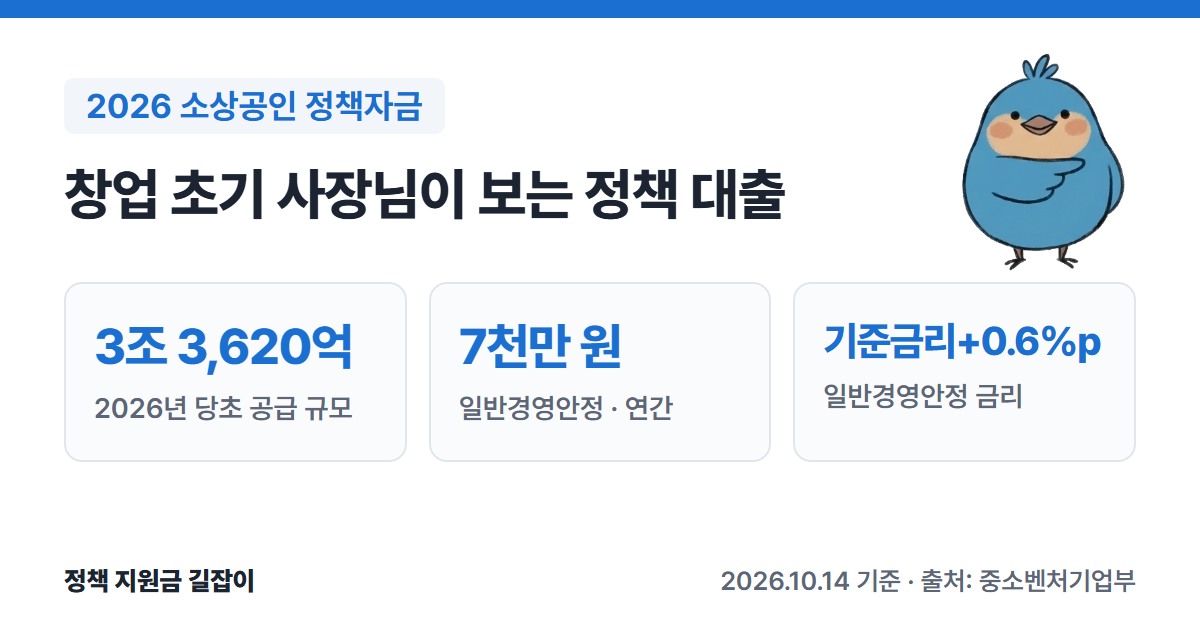
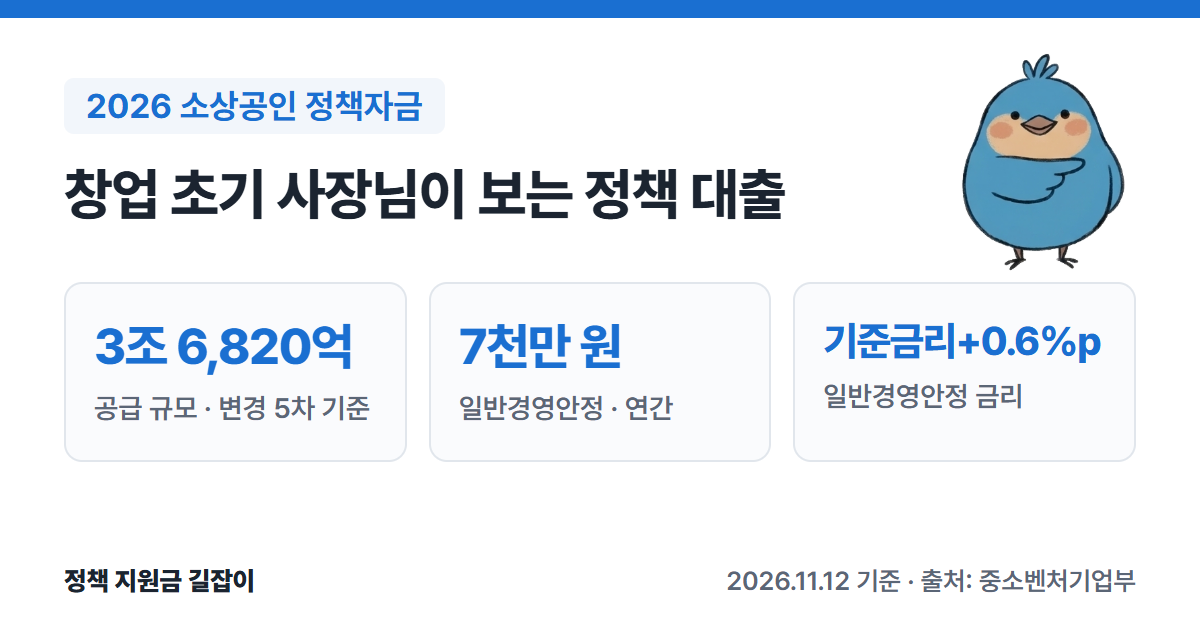
옛 글 최신화 6/16: 소상공인 정책자금(변경 5차 공고 대조 — 공급 규모 3조 6,820억·지역센터 80곳, 혁신성장 혁신형 한도, 흐름도, 놓치기 쉬운 점, Fable 검토 ⚠12 반영)

Changed region(s): [[0.0617, 0.6032, 0.3083, 0.6635], [0.1233, 0.5127, 0.2158, 0.573], [0.5858, 0.9048, 0.7092, 0.9349]]

diff --git a/_tools/flow/small-business-policy-loan-2026.html b/_tools/flow/small-business-policy-loan-2026.html
@@ -1,0 +1,17 @@
+<!doctype html><html><head><meta charset="utf-8"><title>flow</title></head><body><script>
+// 번호 = 본문 "신청 순서" 1~3. 2단계는 본문 "직접대출과 대리대출" 표 그대로(대리대출 경로를 그리고 직접대출은 메모)
+window.FLOW = { height: 1330, label: "2026 소상공인 정책자금",
+  note: { main: "갚아야 하는 대출(융자)이에요", sub: "접수 중인 자금은 누리집 공지에서 확인하세요" },
+  applicant: { y0: 340, y1: 1050, lines: ["(소상공인)"] },
+  boxes: [
+    { y: 340, h: 220, main: 1, lines: [["head", "신청 (중 1곳)"], ["title", "정책자금 누리집"], ["text", "소진공 지역센터"]] },
+    { y: 650, h: 170, lines: [["title", "신용보증재단"], ["text", "보증서 (보증서부 대출)"]] },
+    { y: 900, h: 150, lines: [["title", "은행"], ["em", "대리대출"]] } ],
+  arrows: [
+    { type: "in", y: 450, n: 1, label: "자금 신청" },
+    { type: "v", y0: 560, y1: 650, n: 2, label: "대상 확인" },
+    { type: "v", y0: 820, y1: 900, label: "보증서" },
+    { type: "out", y: 975, label: "대출" } ],
+  notesY: 1140, notes: ["직접대출은 소진공이 직접 심사해서 대출해요", [3, "대출 뒤 용도 점검 · 다른 용도면 조기 회수"], "문의: 1533-0100 · 1357"],
+  foot: "2026.11.12 기준 · 출처: 중소벤처기업부 공고" };
+</script><script src="flow.js"></script></body></html>

diff --git a/_tools/card.html b/_tools/card.html
@@ -285,12 +285,12 @@ const cards = {
     label: "2026 청년창업사관학교",
     title: "39세 이하 창업자 자금·공간·교육",
     stats: [["최대 1억 원", "사업화 자금 · 평균 0.7억"], ["39세 이하", "창업 3년 이내"], ["650명", "전국 18곳 모집"]],
-    foot: "2026.10.14 기준 · 출처: 중소벤처기업부"
+    foot: "2026.11.12 기준 · 출처: 중소벤처기업부"
   },
   "small-business-policy-loan-2026": {
     label: "2026 소상공인 정책자금",
     title: "창업 초기 사장님이 보는 정책 대출",
-    stats: [["3조 3,620억", "2026년 당초 공급 규모"], ["7천만 원", "일반경영안정 · 연간"], ["기준금리+0.6%p", "일반경영안정 금리"]],
+    stats: [["3조 6,820억", "공급 규모 · 변경 5차 기준"], ["7천만 원", "일반경영안정 · 연간"], ["기준금리+0.6%p", "일반경영안정 금리"]],
     foot: "2026.11.12 기준 · 출처: 중소벤처기업부"
   },
   "startup-tax-reduction-2026": {

diff --git a/_posts/2026-10-14-small-business-policy-loan-2026.md b/_posts/2026-10-14-small-business-policy-loan-2026.md
@@ -1,7 +1,7 @@
 ---
 layout: post
 title: "2026 소상공인 정책자금 총정리: 창업 초기 사장님이 볼 대출 종류·한도·금리·신청법"
-description: "정책자금은 갚아야 하는 대출이에요. 2026년 당초 공급 규모는 3조 3,620억 원이에요. 업력과 관계없이 신청할 수 있는 일반경영안정자금은 연간 7천만 원까지, 금리는 정책자금 기준금리 + 0.6%p예요."
+description: "정책자금은 갚아야 하는 대출이에요. 2026년 공급 규모는 변경 5차 공고 기준 3조 6,820억 원이에요(당초 3조 3,620억 원). 업력과 관계없이 신청할 수 있는 일반경영안정자금은 연간 7천만 원까지, 금리는 정책자금 기준금리 + 0.6%p예요."
 date: 2026-10-14 13:40:00 +0900
 topic: 창업
 who: ["소상공인"]
@@ -13,15 +13,15 @@ apply_name: "소상공인 정책자금 누리집"
 **소상공인 정책자금**은 정부가 소상공인에게 낮은 금리로 빌려주는 **융자(대출)** 예요. 창업 초기에 운영자금이 필요할 때 가장 먼저 찾아보는 제도이기도 해요.
 중소벤처기업부·소상공인시장진흥공단의 「2026년 중소벤처기업부 소상공인 정책자금 융자사업 공고」 원문을 바탕으로 정리했어요.
 
-![2026 소상공인 정책자금 요약: 당초 공급 규모 3조 3,620억 원, 일반경영안정자금 연간 7천만 원, 금리 기준금리+0.6%p](/assets/images/cards/small-business-policy-loan-2026.png){: .summary-card}
+![2026 소상공인 정책자금 요약: 공급 규모 3조 6,820억 원(변경 5차 기준), 일반경영안정자금 연간 7천만 원, 금리 기준금리+0.6%p](/assets/images/cards/small-business-policy-loan-2026.png){: .summary-card}
 
 > 💡 **핵심 요약**
-> - 정책자금은 **갚아야 하는 대출**이에요. 2026년 당초 공급 규모는 **3조 3,620억 원**이에요. (출처①)
+> - 정책자금은 **갚아야 하는 대출**이에요. 2026년 공급 규모는 변경 5차 공고 기준 **3조 6,820억 원**이에요(당초 3조 3,620억 원). (출처①②)
 > - 업력과 관계없이 신청할 수 있는 **일반경영안정자금**은 연간 **7천만 원**까지, 금리는 **정책자금 기준금리 + 0.6%p**예요. (출처①)
-> - 공고는 연중에 여러 번 바뀌었고, 가장 최근 변경은 **2026년 10월 1일(5차)** 이에요. 신청 전에 최신 공고를 확인하세요. (출처②)
+> - 공고는 연중에 여러 번 바뀌었고, 2026년 11월 12일 기준 가장 최근 변경은 **10월 1일(5차)** 이에요. 신청 전에 최신 공고를 확인하세요. (출처②)
 
 > **출처 표시 방법**: 본문의 (출처①) 같은 표시는 글 끝 출처 목록의 번호와 같아요.
-> 이 글의 대상·한도·금리는 **당초 공고(2025.12.29.)** 기준이에요. 자금별 예산 규모는 변경 공고로 조정될 수 있어요.
+> 이 글의 대상·한도·금리는 **당초 공고(2025.12.29.)** 를 기준으로, 10월 1일 변경 5차 공고와 대조해 바뀐 곳을 고쳤어요. 변경 공고로 자금별 예산과 일부 자금 구성(홈플러스 피해 소상공인 자금 신설 등)이 바뀌었어요. (출처①②)
 
 <div class="toc-box" markdown="1">
 <p class="toc-title">목차</p>
@@ -39,10 +39,10 @@ apply_name: "소상공인 정책자금 누리집"
 | 대상 | 「소상공인기본법」상 **소상공인** |
 | 기업당 한도 | 운전자금 **5억 원** 이내 (시설자금 포함 시 10억 원)<br>소진공 대출 잔액 합산 |
 | 금리 | 정책자금 기준금리(분기별 변동) + 자금별 가산금리<br>일부 자금은 고정금리 |
-| 신청 | [소상공인정책자금 누리집](https://ols.semas.or.kr) 또는 소진공 지역센터(전국 80곳) |
+| 신청 | [소상공인정책자금 누리집](https://ols.semas.or.kr) 또는 소진공 지역센터(전국 80곳, 변경 5차 기준) |
 | 문의 | 중소기업통합콜센터 1357, 소상공인통합콜센터 1533-0100 |
 
-(출처①)
+(출처①②)
 
 ---
 
@@ -74,7 +74,7 @@ apply_name: "소상공인 정책자금 누리집"
 |---|---|
 | 일반형 | 희망리턴패키지 재창업교육 수료, 재창업 초기, 채무조정 소상공인 등<br>7천만 원, 기준금리 +1.6%p |
 | 희망형 | 희망리턴패키지 재기사업화 완료·선정 소상공인<br>1억 원, 기준금리 +0.6%p |
-| 도약형 | 재창업 후 업력 2년 이상, 매출·고용이 늘어난 성실상환 소상공인<br>2억 원, 기준금리 +0.4%p |
+| 도약형 | 재창업 후 업력 2년 이상, 매출 증가·고용 유지 등 성장성이 인정되는 성실상환 소상공인<br>2억 원, 기준금리 +0.4%p |
 
 (출처①)
 
@@ -87,10 +87,10 @@ apply_name: "소상공인 정책자금 누리집"
 | 대환대출 | 중·저신용(NCB 919점 이하) 소상공인의 **7% 이상 고금리 대출**을 바꿔 줌<br>5천만 원, **연 4.5% 고정**, 10년 |
 | 장애인기업지원자금 | 장애인기업<br>1억 원, **연 2.0% 고정**, 7년 |
 | 긴급경영안정자금(재해) | 재해 확인증을 받은 소상공인<br>1억 원, **연 2.0% 고정** |
-| 소공인특화자금 | 제조업 소공인<br>(일반) 운전 1억·시설 5억 원, 기준금리 +0.6%p |
-| 혁신성장촉진자금 | 수출, 매출 신장, 신사업창업사관학교 수료생 등<br>(일반형) 운전 1억·시설 5억 원, 기준금리 +0.4%p |
+| 소공인특화자금 | 제조업 소공인<br>운전 1억·시설 5억 원, 기준금리 +0.6%p |
+| 혁신성장촉진자금 | (혁신형) 수출, 2년 연속 매출 10% 이상 신장 등: 운전 2억·시설 10억 원<br>(일반형) 스마트기술, 신사업창업사관학교 수료생 등: 운전 1억·시설 5억 원<br>모두 기준금리 +0.4%p |
 
-(출처①)
+(출처①②)
 
 ---
 
@@ -121,7 +121,7 @@ apply_name: "소상공인 정책자금 누리집"
 - 신용정보원에 '신용도판단정보' 등이 등록된 소상공인
 - 휴업·폐업 중인 소상공인 (재해로 인한 휴업은 예외)
 - 금융·보험업, 부동산업(일부 예외), 유흥주점, 법무·세무 등 **융자 제외 업종**
-- 최근 5년 안에 정책자금을 **3회 이상** 받은 소상공인 (특별경영안정자금은 횟수에서 제외)
+- 최근 5년 안에 정책자금을 **3회 이상** 받은 소상공인 (특별경영안정자금은 횟수에서 제외, 시설자금·직접대출 성실상환 소상공인은 1회 추가 가능)
 
 (출처①)
 
@@ -134,7 +134,7 @@ apply_name: "소상공인 정책자금 누리집"
 | 방식 | 진행 |
 |---|---|
 | 직접대출 | 소진공이 신청을 받고 **직접 심사**해서 대출해요. |
-| 대리대출 | 소진공이 대상 여부를 확인하면, **신용보증재단의 보증서**를 받아 **은행**에서 대출해요. |
+| 대리대출 | 소진공이 대상 여부를 확인하면, **은행**(금융기관)이 평가해서 대출해요. 보증서로 대출받는 경우에는 **신용보증재단 등의 보증서**를 받아요. |
 
 (출처①)
 
@@ -146,15 +146,28 @@ apply_name: "소상공인 정책자금 누리집"
 
 (출처①)
 
+![신청 흐름: 1 소상공인정책자금 누리집이나 소진공 지역센터에 자금 신청, 2 대리대출은 소진공이 대상을 확인하면 은행에서 대출(보증서부 대출은 신용보증재단 등의 보증서를 받음), 직접대출은 소진공이 직접 심사해서 대출, 3 대출 뒤 용도 점검, 다른 용도로 쓰면 조기 회수. 갚아야 하는 대출이고, 접수 중인 자금은 누리집 공지 확인. 문의 1533-0100, 1357](/assets/images/flow/small-business-policy-loan-2026.png){: .flow-chart}
+
 ### 접수 시기
 
-2026년에는 대리대출이 **1월 5일**, 직접대출이 **1월 12일**부터 접수를 시작했어요. (출처①) 자금별 예산이 소진되면 마감되고, 분기마다 접수가 다시 열리기도 해요. **현재 접수 중인 자금**은 소상공인정책자금 누리집 공지에서 확인하세요.
+2026년에는 대리대출이 **1월 5일**, 직접대출이 **1월 12일**부터 접수를 시작했어요. (출처①) **현재 접수 중인 자금**은 소상공인정책자금 누리집 공지에서 확인하세요.
 
-> ⚠ **불법 브로커에 주의하세요.** 정책자금 신청은 본인이 하는 것이 원칙이에요. 대출을 받아 주겠다며 수수료를 요구하거나 공무원을 사칭하는 경우 각 기관의 '제3자 부당개입' 신고센터에 신고할 수 있어요. (출처③)
+> ⚠ **불법 브로커에 주의하세요.** 정책자금 신청은 본인이 하는 것이 원칙이에요. 대출을 받아 주겠다며 수수료를 요구하거나 공무원을 사칭하는 경우 소상공인정책자금 누리집(ols.semas.or.kr)이나 1533-0100으로 신고할 수 있어요. (출처②)
 
 ---
 
-## 6. 자주 묻는 질문
+## 6. 놓치기 쉬운 점
+
+- **세금을 체납 중이면 신청할 수 없어요.** 압류·매각 유예 등을 받은 경우 직접대출만 예외예요. (출처①)
+- **최근 5년 안에 3번 받았다면 원칙적으로 막혀요.** 특별경영안정자금은 횟수에서 빠지고, 시설자금·직접대출을 성실히 갚은 소상공인은 1회 더 받을 수 있어요. (출처①②)
+- **기준금리는 분기마다 바뀌고, 이미 받은 대출도 같이 바뀌어요.** 일부 자금은 제외돼요. (출처①)
+- **수수료를 요구하는 대행은 피하세요.** 정부 지원사업은 본인 신청이 원칙이에요. (출처②)
+
+이런 경우는 소상공인통합콜센터 **1533-0100**에 먼저 물어보세요: 내 업종이 융자 제외 업종인지, 지금 접수 중인 자금이 무엇인지.
+
+---
+
+## 7. 자주 묻는 질문
 
 **Q. 창업 전에도 받을 수 있나요?**
 정책자금 대상은 「소상공인기본법」상 **소상공인**이에요. 사업자등록 전 예비창업자라면 [예비창업패키지]({% post_url 2026-10-14-pre-startup-package-2026 %}) 같은 창업지원사업을 먼저 확인해 보세요. (출처①)
@@ -163,7 +176,7 @@ apply_name: "소상공인 정책자금 누리집"
 정책자금 기준금리는 **분기마다 바뀌어요.** 공고문에는 숫자가 없고, 소상공인시장진흥공단 누리집에 분기별로 공지돼요. (출처①)
 
 **Q. 소상공인이 전기화물차를 사면 혜택이 있나요?**
-2026년 전기차 보조금 지침에서는 소상공인이 **소형·경형 전기화물차**를 사면 국비 지원액의 **30%를 추가** 지원해요. 자세한 내용은 [전기차 구매보조금 글]({% post_url 2026-10-14-ev-purchase-subsidy-2026 %})을 참고하세요.
+2026년 전기차 보조금 지침에는 소상공인이 **소형·경형 전기화물차**를 살 때 추가 지원이 있어요. 금액과 조건은 [전기차 구매보조금 글]({% post_url 2026-10-14-ev-purchase-subsidy-2026 %})에서 확인하세요.
 
 ---
 
@@ -177,10 +190,9 @@ apply_name: "소상공인 정책자금 누리집"
 
 ## 출처
 
-1. [중소벤처기업부 공고 제2025-656호 - 2026년 중소벤처기업부 소상공인 정책자금 융자사업 공고 (2025.12.29.)](https://www.mss.go.kr/site/smba/ex/bbs/View.do?cbIdx=310&bcIdx=1064354&parentSeq=1064354) - 중소벤처기업부 사업공고 (확인일: 2026-10-14)
-2. [중소벤처기업부 사업공고 게시판](https://www.mss.go.kr/site/smba/ex/bbs/List.do?cbIdx=310) - 「2026년 중소벤처기업부 소상공인 정책자금 융자사업 공고(변경 5차)」 (2026.10.1. 등록) (확인일: 2026-10-14)
-3. [중소벤처기업부 공고 제2026-143호 - 예비창업패키지 모집공고 붙임4 '제3자 부당개입 주의 안내문'](https://www.bizinfo.go.kr/sii/siia/selectSIIA200Detail.do?pblancId=PBLN_000000000119019) (확인일: 2026-10-14)
+1. [중소벤처기업부 공고 제2025-656호 - 2026년 중소벤처기업부 소상공인 정책자금 융자사업 공고 (2025.12.29.)](https://www.mss.go.kr/site/smba/ex/bbs/View.do?cbIdx=310&bcIdx=1064354&parentSeq=1064354) - 중소벤처기업부 사업공고 (확인일: 2026-11-12)
+2. [중소벤처기업부 공고 제2026-576호 - 2026년 중소벤처기업부 소상공인 정책자금 융자사업 공고(변경 5차) (2026.10.1.)](https://www.mss.go.kr/site/smba/ex/bbs/View.do?cbIdx=310&bcIdx=1071565&parentSeq=1071565) - 첨부 「제3자 부당개입 주의 안내문」 포함 (확인일: 2026-11-12)
 4. [소상공인정책자금 누리집](https://ols.semas.or.kr) - 신청 및 접수 현황
 
-> 이 글은 **2026년 10월 14일** 기준이에요. 자금별 예산과 접수 일정은 변경 공고로 바뀔 수 있으니 신청 전에 최신 공고를 꼭 확인하세요.
+> 이 글은 **2026년 11월 12일** 기준이에요. 자금별 예산과 접수 일정은 변경 공고로 바뀔 수 있으니 신청 전에 최신 공고를 꼭 확인하세요.
 > 문의: 소상공인통합콜센터 **1533-0100**, 중소기업통합콜센터 **1357**
